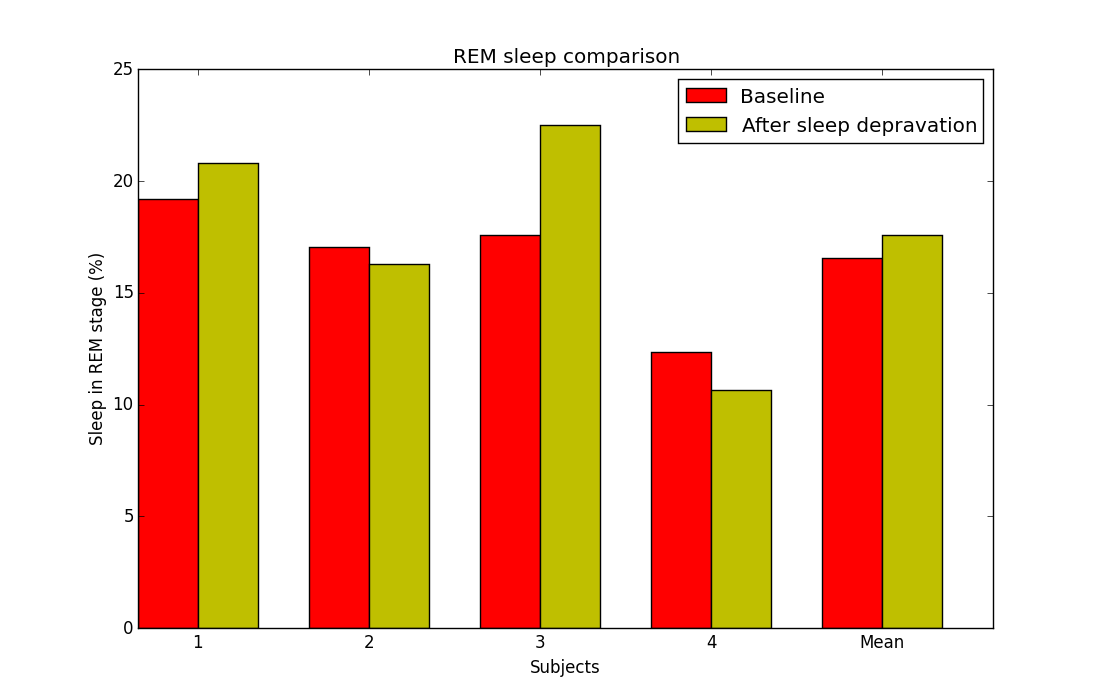
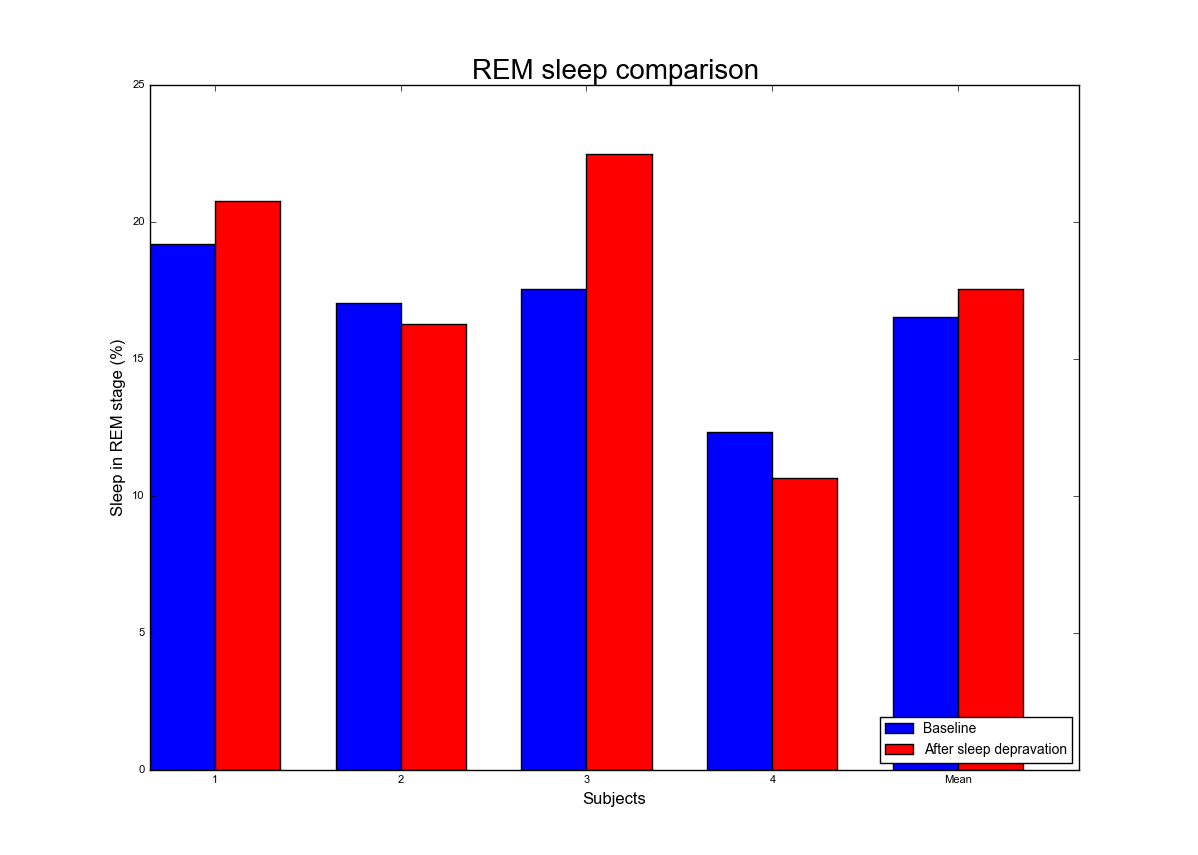
graph updates

diff --git a/yannick.py b/yannick.py
@@ -105,7 +105,8 @@ def analyse(subjects):
             freq[j-1] = list(subjects['S' + str(j)][2]).count(i)
         df['s' + str(i)] = freq
         df['%' + str(i)] = freq / df['stages'] * 100
-        
+         
+    total_transitions = 0
     ttab = np.zeros((4,64))
     for k in range(0,4):
         l = list(subjects['S' + str(k+1)][2])
@@ -116,6 +117,7 @@ def analyse(subjects):
             if (stg < 6) & (stg <> current):
                 tmp[current, stg] = tmp[current, stg] + 1  
                 current = stg
+                total_transitions = total_transitions + 1
         t = np.reshape(tmp, 64)
         ttab[k] = t
     
@@ -123,7 +125,7 @@ def analyse(subjects):
         for j in range(0,6):
             col = ttab[:,(i*8)+j]
             df['t' + str(i) + '-' + str(j)] = col
-            
+            df['%t' + str(i) + '-' + str(j)] = col / total_transitions * 100   
     return df
 
 def plot_histogram(df1, df2):
@@ -133,6 +135,7 @@ def plot_histogram(df1, df2):
     df1: normal sleep (df1 = analyse(base))
     df2: sleep depravation (df2 = analyse(depr))
     """    
+    plt.rc('font', family='Arial')
     N = 5
     normal = df1['%5'].tolist()
     mean = sum(normal) / len(normal)
@@ -142,23 +145,26 @@ def plot_histogram(df1, df2):
     width = 0.35       # the width of the bars
 
     fig, ax = plt.subplots()
-    rects1 = ax.bar(ind, normal, width, color='r')
+    rects1 = ax.bar(ind, normal, width, color='b')
 
     depravation = df2['%5'].tolist()
     mean = sum(depravation) / len(depravation)
     depravation.extend([mean])
 
 
-    rects2 = ax.bar(ind+width, depravation, width, color='y')
+    rects2 = ax.bar(ind+width, depravation, width, color='r')
 
     ax.set_ylabel('Sleep in REM stage (%)')
     ax.set_xlabel('Subjects')
     
-    ax.set_title('REM sleep comparison')
+    ax.set_title('REM sleep comparison', fontsize=20)
     ax.set_xticks(ind+width)
     ax.set_xticklabels( ('1', '2', '3', '4', 'Mean') )
+    for label in (ax.get_xticklabels() + ax.get_yticklabels()):
+           label.set_fontname('Arial')
+           label.set_fontsize(8)            
 
-    ax.legend( (rects1[0], rects2[0]), ('Baseline', 'After sleep depravation') )
+    ax.legend( (rects1[0], rects2[0]), ('Baseline', 'After sleep depravation') ,  loc = 'lower right', fontsize=10 )
     
 def plot_sleepTime(df1, df2):
     """
@@ -166,6 +172,8 @@ def plot_sleepTime(df1, df2):
     df1: normal sleep (df1 = analyse(base))
     df2: sleep depravation (df2 = analyse(depr))
     """    
+
+    plt.rc('font', family='Arial')
     N = 5
     normal = df1['sleep duration'].tolist()
     mean = sum(normal) / len(normal)
@@ -175,23 +183,26 @@ def plot_sleepTime(df1, df2):
     width = 0.35       # the width of the bars
 
     fig, ax = plt.subplots()
-    rects1 = ax.bar(ind, normal, width, color='r')
+    rects1 = ax.bar(ind, normal, width, color='b')
 
     depravation = df2['sleep duration'].tolist()
     mean = sum(depravation) / len(depravation)
     depravation.extend([mean])
 
 
-    rects2 = ax.bar(ind+width, depravation, width, color='y')
+    rects2 = ax.bar(ind+width, depravation, width, color='r')
 
     ax.set_ylabel('Sleep time (hours)')
     ax.set_xlabel('Subjects')
     
-    ax.set_title('Overall sleep duration comparison')
+    ax.set_title('Overall sleep duration comparison', fontsize=20)
     ax.set_xticks(ind+width)
     ax.set_xticklabels( ('1', '2', '3', '4', 'Mean') )
+    for label in (ax.get_xticklabels() + ax.get_yticklabels()):
+           label.set_fontname('Arial')
+           label.set_fontsize(8)            
 
-    ax.legend( (rects1[0], rects2[0]), ('Baseline', 'After sleep depravation') )    
+    ax.legend( (rects1[0], rects2[0]), ('Baseline', 'Recovery'), loc = 'lower right', fontsize=10 )    
 
 def plot_transition(df1, df2):
     """
@@ -214,11 +225,11 @@ def plot_transition(df1, df2):
             normal = df1[clef].tolist()
             mean = sum(normal) / len(normal)
             normal.extend([mean])
-            rects1 = ax[i,j].bar(ind, normal, width, color='r')
+            rects1 = ax[i,j].bar(ind, normal, width, color='b')
             depravation = df2[clef].tolist()
             mean = sum(depravation) / len(depravation)
             depravation.extend([mean])
-            rects2 = ax[i,j].bar(ind+width, depravation, width, color='y')
+            rects2 = ax[i,j].bar(ind+width, depravation, width, color='r')
             for label in (ax[i,j].get_xticklabels() + ax[i,j].get_yticklabels()):
                 label.set_fontname('Arial')
                 label.set_fontsize(8)            
@@ -227,7 +238,44 @@ def plot_transition(df1, df2):
             ax[i,j].set_xticklabels( ('1', '2', '3', '4', 'Avg') )
             ax[i,j].set_yticks(np.arange(0, 50, 10))
             ax[i,j].set_ylim([0,45])
-    fig.legend( (rects1[0], rects2[0]), ('Baseline', 'After sleep depravation'), loc = 'lower right', fontsize=10)
+    fig.legend( (rects1[0], rects2[0]), ('Baseline', 'Recovery'), loc = 'lower right', fontsize=10)
+
+def plot_transition_ratio(df1, df2):
+    """
+    plot stage transitions
+    df1: normal sleep (df1 = analyse(base))
+    df2: sleep depravation (df2 = analyse(depr))
+    """    
+    N = 5
+    ind = np.arange(N)  # the x locations for the groups
+    width = 0.2       # he width of the bars
+    plt.close()
+    plt.rc('font', family='Arial')
+
+    fig, ax = plt.subplots(nrows=6, ncols=6, sharex='col', sharey='row')
+    fig.suptitle("Comparison of the number of stage transitions (% of total transitions) (origin stage " + u'\u2192' + " dest. stage)", fontsize=20)        
+    plt.subplots_adjust(wspace = 0.2,hspace = 0.4 )
+    for i in range(0,6): # do not care about stage transitions > 5
+        for j in range(0,6):     
+            clef = '%t' + str(i) + '-' + str(j)
+            normal = df1[clef].tolist()
+            mean = sum(normal) / len(normal)
+            normal.extend([mean])
+            rects1 = ax[i,j].bar(ind, normal, width, color='b')
+            depravation = df2[clef].tolist()
+            mean = sum(depravation) / len(depravation)
+            depravation.extend([mean])
+            rects2 = ax[i,j].bar(ind+width, depravation, width, color='r')
+            for label in (ax[i,j].get_xticklabels() + ax[i,j].get_yticklabels()):
+                label.set_fontname('Arial')
+                label.set_fontsize(8)            
+            ax[i,j].set_title(str(i) + ' ' + u'\u2192' + ' ' + str(j))
+            ax[i,j].set_xticks(ind+width)
+            ax[i,j].set_xticklabels( ('1', '2', '3', '4', 'Avg') )
+            ax[i,j].set_yticks(np.arange(0, 6, 2))
+            ax[i,j].set_ylim([0,6])
+    fig.legend( (rects1[0], rects2[0]), ('Baseline', 'Recovery'), loc = 'lower right', fontsize=10)
+
 
 if __name__ == "__main__":
 # Uncomment next to reload the files (needed to run once)
@@ -236,4 +284,5 @@ if __name__ == "__main__":
     df2 = analyse(depr)
 #    plot_histogram(df1, df2)
 #    plot_sleepTime(df1, df2)
-    plot_transition(df1, df2)
+#    plot_transition(df1, df2)
+    plot_transition_ratio(df1, df2)
